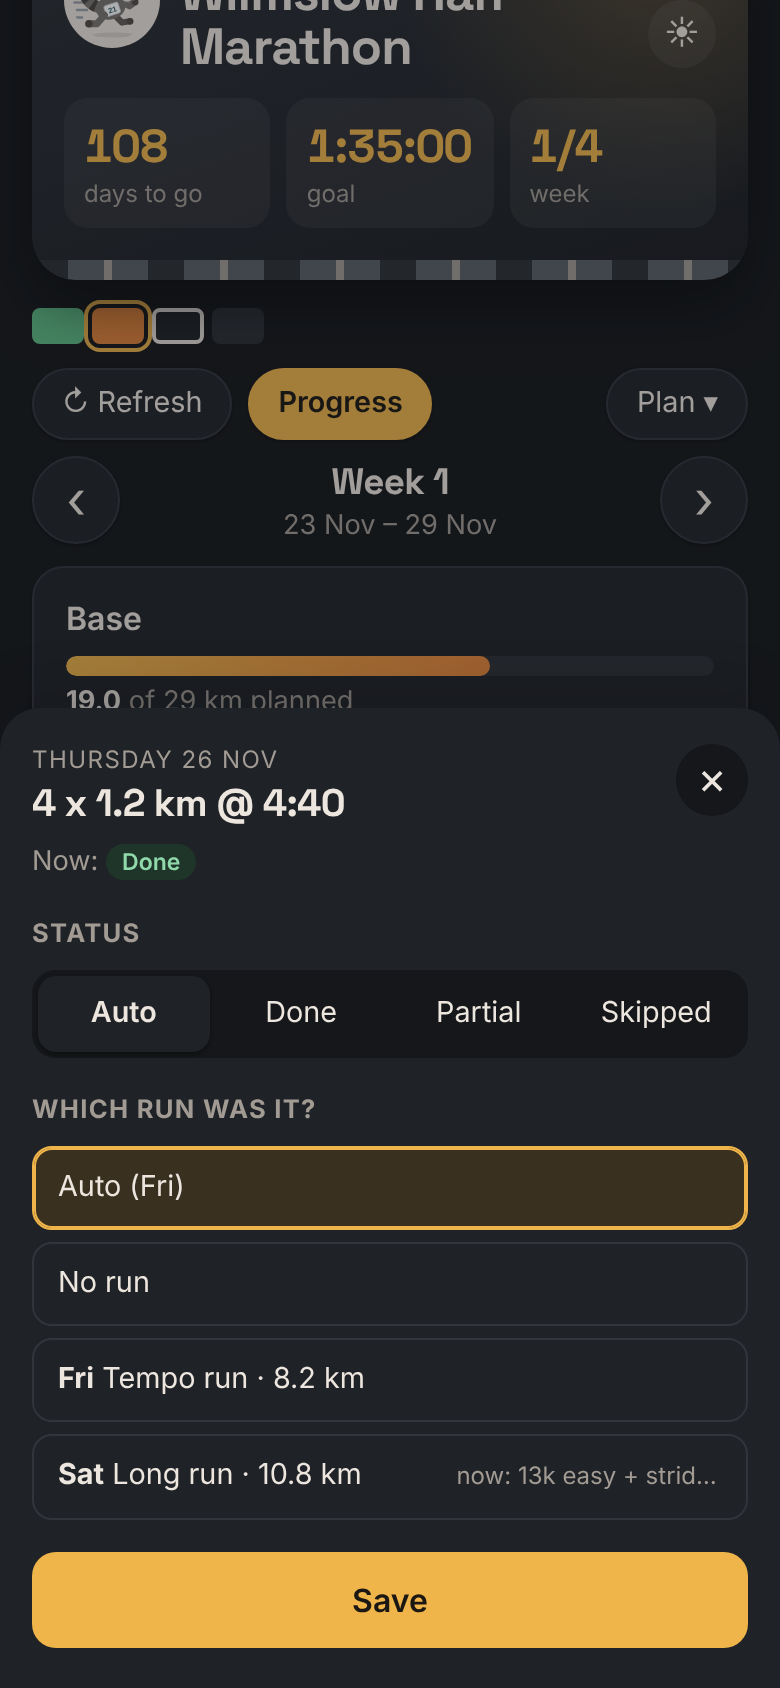
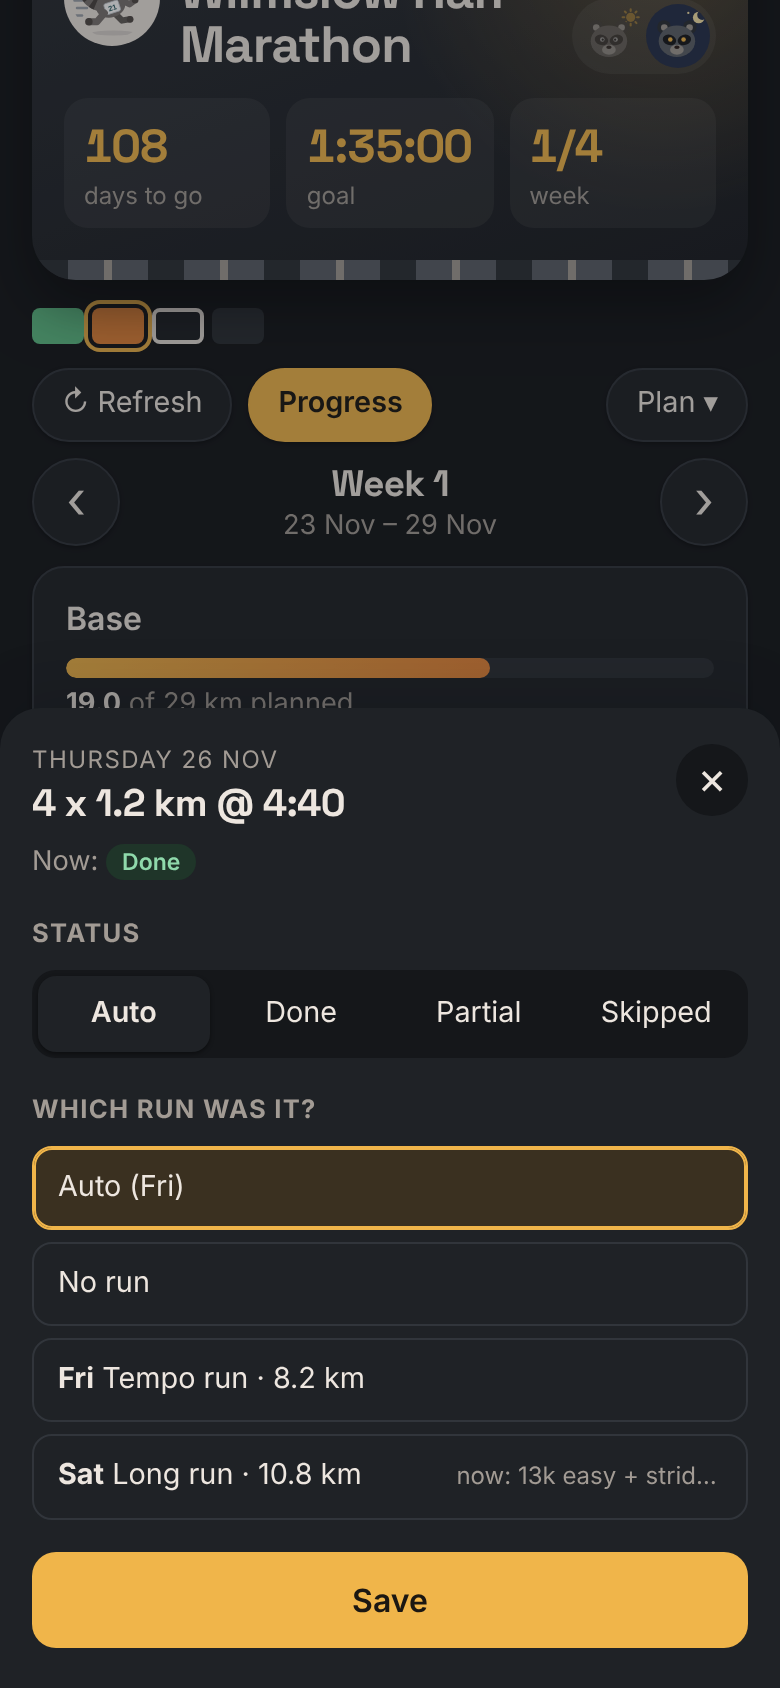
Turn the theme toggle into a day raccoon / night raccoon switch
Claude-Session: https://claude.ai/code/session_017WMbTfTqS9fseiB2vL78Qc

diff --git a/app/components/ThemeToggle.tsx b/app/components/ThemeToggle.tsx
@@ -3,6 +3,25 @@
 import { useEffect, useState } from "react";
 import { DEFAULT_THEME, otherTheme, THEME_KEY, THEMES, type Theme } from "@/lib/theme";
 
+const FACES = {
+  day: {
+    fur: "#8f8883",
+    ears: "#4a4441",
+    mask: "#3a3431",
+    snout: "#efe8e1",
+    eye: "#ffffff",
+    pupil: "#1d1a19",
+  },
+  night: {
+    fur: "#5c6168",
+    ears: "#2c3035",
+    mask: "#17191c",
+    snout: "#a29b94",
+    eye: "#f0b54a",
+    pupil: "#f0b54a",
+  },
+};
+
 /** Reads the theme the pre-paint script applied to <html>. */
 function currentTheme(): Theme {
   const value = document.documentElement.dataset.theme;
@@ -10,7 +29,66 @@ function currentTheme(): Theme {
   return theme;
 }
 
-/** Sun/moon button that flips between the Midnight and Bandit themes. */
+/** A small raccoon face with a sun (day) or crescent moon (night). */
+function RaccoonFace({ time }: { time: "day" | "night" }) {
+  const c = FACES[time];
+  const sky =
+    time === "day" ? (
+      <g fill="#f5b83d" stroke="#f5b83d" strokeWidth="1" strokeLinecap="round">
+        <circle cx="23.5" cy="4.5" r="2.2" stroke="none" />
+        <path d="M23.5 0.6v0.8M23.5 7.6v0.8M19.6 4.5h0.8M26.6 4.5h0.8M20.7 1.7l0.5 0.5M25.8 6.8l0.5 0.5M20.7 7.3l0.5-0.5M25.8 2.2l0.5-0.5" />
+      </g>
+    ) : (
+      <g>
+        <mask id="moon-cut">
+          <rect width="28" height="28" fill="#fff" />
+          <circle cx="25.2" cy="3.4" r="2.4" fill="#000" />
+        </mask>
+        <circle cx="23.5" cy="4.6" r="2.8" fill="#f6e3a8" mask="url(#moon-cut)" />
+        <circle cx="18.5" cy="2.4" r="0.55" fill="#f6e3a8" />
+      </g>
+    );
+  const face = (
+    <svg viewBox="0 0 28 28" width="29" height="29" aria-hidden="true">
+      {sky}
+      {/* ears */}
+      <circle cx="6.8" cy="9.2" r="3.3" fill={c.ears} />
+      <circle cx="19.2" cy="9.2" r="3.3" fill={c.ears} />
+      <circle cx="6.9" cy="9.4" r="1.6" fill={c.snout} />
+      <circle cx="19.1" cy="9.4" r="1.6" fill={c.snout} />
+      {/* head */}
+      <ellipse cx="13" cy="16" rx="8.8" ry="7.6" fill={c.fur} />
+      {/* bandit mask */}
+      <ellipse
+        cx="9.4"
+        cy="15.4"
+        rx="3.3"
+        ry="2.5"
+        transform="rotate(18 9.4 15.4)"
+        fill={c.mask}
+      />
+      <ellipse
+        cx="16.6"
+        cy="15.4"
+        rx="3.3"
+        ry="2.5"
+        transform="rotate(-18 16.6 15.4)"
+        fill={c.mask}
+      />
+      {/* eyes */}
+      <circle cx="9.8" cy="15.2" r="1.1" fill={c.eye} />
+      <circle cx="16.2" cy="15.2" r="1.1" fill={c.eye} />
+      <circle cx="10" cy="15.3" r="0.55" fill={c.pupil} />
+      <circle cx="16" cy="15.3" r="0.55" fill={c.pupil} />
+      {/* snout and nose */}
+      <ellipse cx="13" cy="20.2" rx="3.3" ry="2.4" fill={c.snout} />
+      <ellipse cx="13" cy="19" rx="1.3" ry="0.85" fill="#2a1d1a" />
+    </svg>
+  );
+  return face;
+}
+
+/** Day/night switch: flips between the Bandit and Midnight themes. */
 export default function ThemeToggle() {
   const [theme, setTheme] = useState<Theme>(DEFAULT_THEME);
 
@@ -30,7 +108,8 @@ export default function ThemeToggle() {
     setTheme(next);
   }
 
-  const label = theme === "midnight" ? "Switch to day theme" : "Switch to night theme";
+  const night = theme === "midnight";
+  const label = night ? "Switch to day theme" : "Switch to night theme";
   const button = (
     <button
       type="button"
@@ -39,7 +118,12 @@ export default function ThemeToggle() {
       aria-label={label}
       title={label}
     >
-      <span aria-hidden="true">{theme === "midnight" ? "☀" : "☾"}</span>
+      <span className={`theme-option theme-day${night ? "" : " active"}`}>
+        <RaccoonFace time="day" />
+      </span>
+      <span className={`theme-option theme-night${night ? " active" : ""}`}>
+        <RaccoonFace time="night" />
+      </span>
     </button>
   );
   return button;

diff --git a/app/globals.css b/app/globals.css
@@ -1642,19 +1642,39 @@ h1,
   color: var(--today-ink);
 }
 
-/* Day/night toggle in the header. */
+/* Day/night toggle in the header: a day raccoon and a night raccoon. */
 .theme-toggle {
-  display: inline-grid;
-  place-items: center;
-  width: 34px;
-  height: 34px;
-  border-radius: 50%;
+  display: inline-flex;
+  gap: 2px;
+  padding: 3px;
+  border-radius: 999px;
   border: none;
   background: var(--hero-tile);
-  color: var(--hero-text);
-  font-size: 1.05rem;
-  line-height: 1;
   cursor: pointer;
+}
+
+.theme-option {
+  display: grid;
+  place-items: center;
+  width: 32px;
+  height: 32px;
+  border-radius: 50%;
+  opacity: 0.45;
+  transition:
+    opacity 0.2s,
+    background-color 0.2s;
+}
+
+.theme-option.active {
+  opacity: 1;
+}
+
+.theme-day.active {
+  background: #cfe6f5;
+}
+
+.theme-night.active {
+  background: #26304a;
 }
 
 .top-actions {
